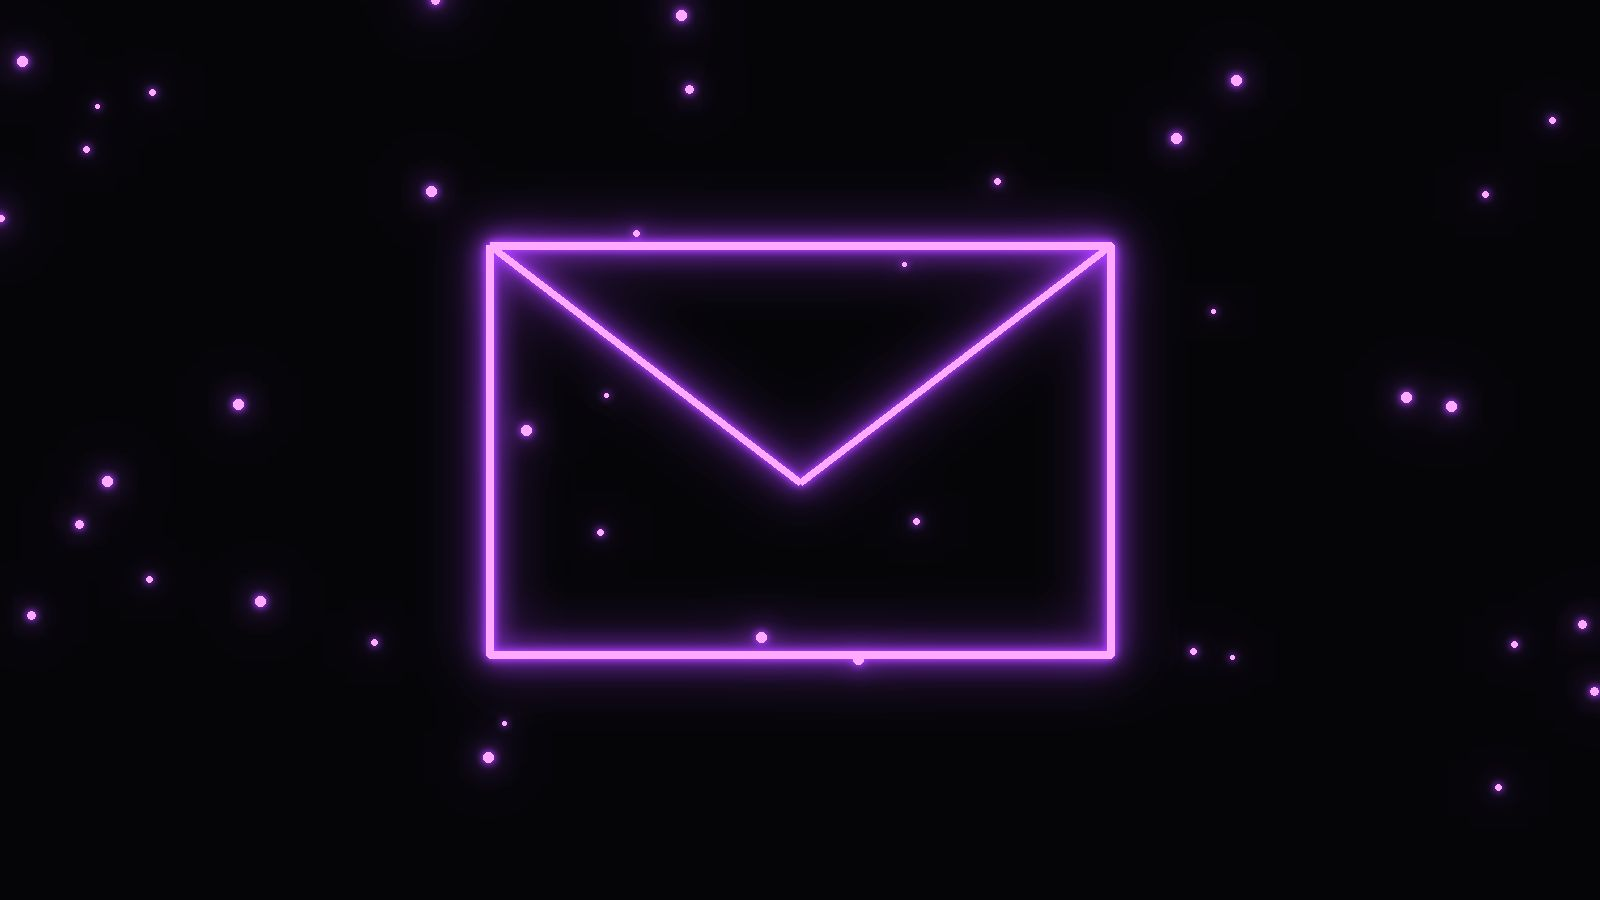
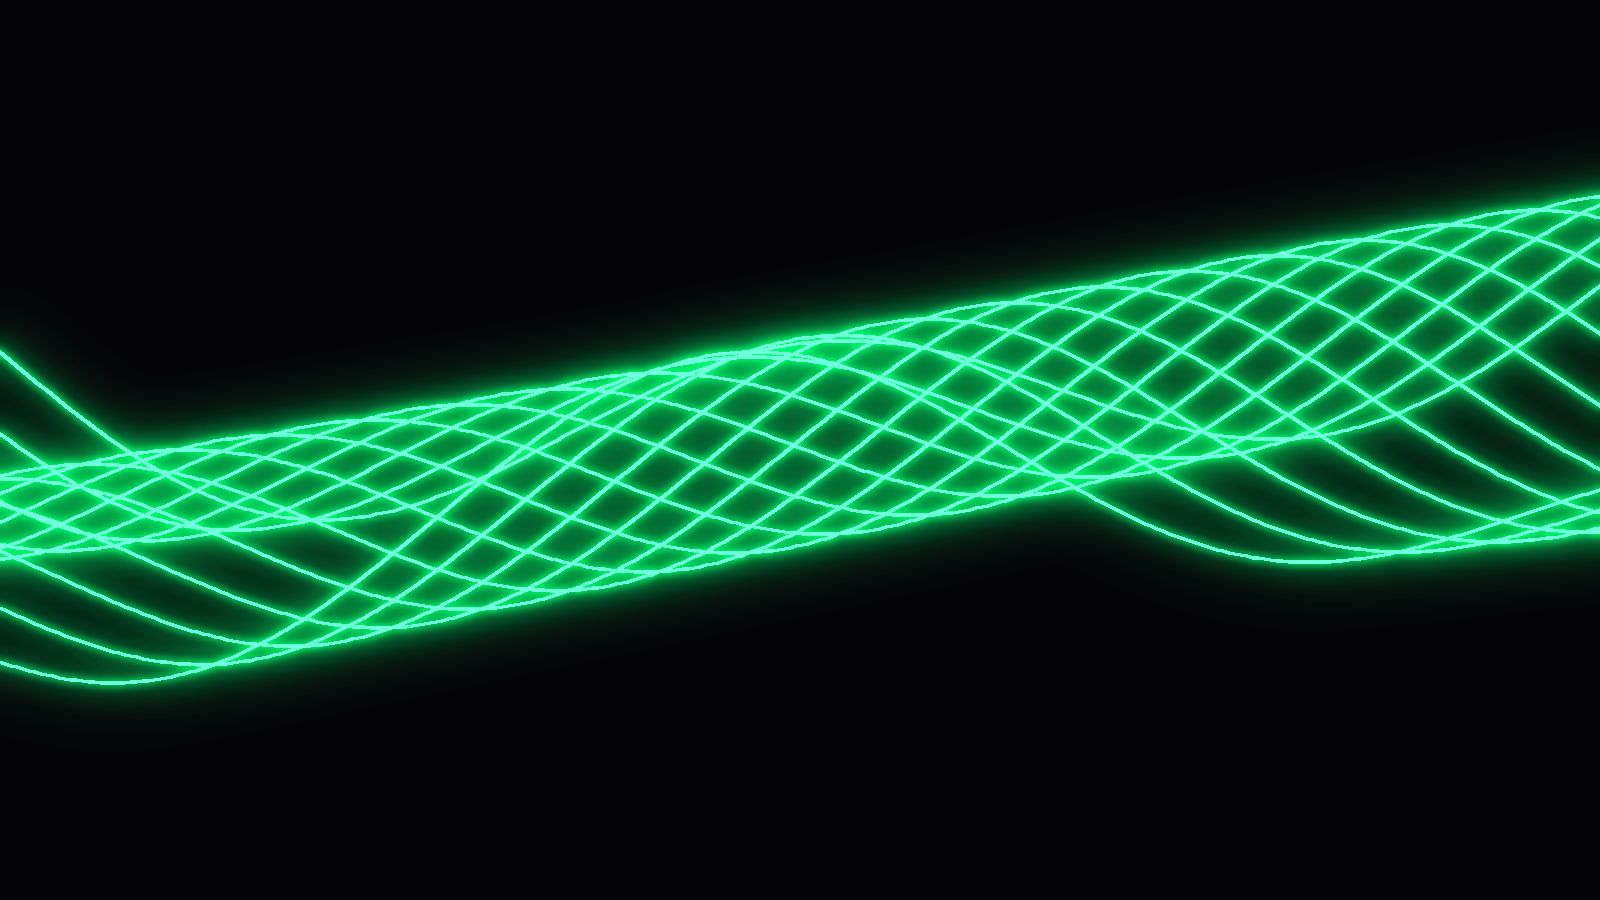
Sign-in page: neon green waves background
Claude-Session: https://claude.ai/code/session_016udhjTuMhg89BWmw1RFp3M

diff --git a/src/main/resources/static/css/login.css b/src/main/resources/static/css/login.css
@@ -104,7 +104,7 @@
   line-height: 1.5;
 }
 
-/* Neon envelope background (dark theme). The image is a violet neon envelope with sparkles; it pulses gently. */
+/* Neon background (dark theme): glowing green waves that pulse and drift gently. */
 [data-theme="dark"] .login-page { background: #050508; }
 [data-theme="dark"] .login-page::before {
   content: "";
@@ -112,12 +112,12 @@
   inset: 0;
   z-index: 0;
   background: url("../img/bg-neon.jpg") center / cover no-repeat;
-  animation: neon-pulse 5s ease-in-out infinite;
+  animation: neon-pulse 6s ease-in-out infinite;
   pointer-events: none;
 }
 @keyframes neon-pulse {
-  0%, 100% { opacity: .75; filter: brightness(.9) saturate(1); }
-  50% { opacity: 1; filter: brightness(1.2) saturate(1.15); }
+  0%, 100% { opacity: .75; filter: brightness(.9); transform: scale(1.04) translateX(-1.5%); }
+  50% { opacity: 1; filter: brightness(1.2); transform: scale(1.04) translateX(1.5%); }
 }
 .login-card { position: relative; z-index: 1; }
 .theme-toggle-fixed { z-index: 2; }
